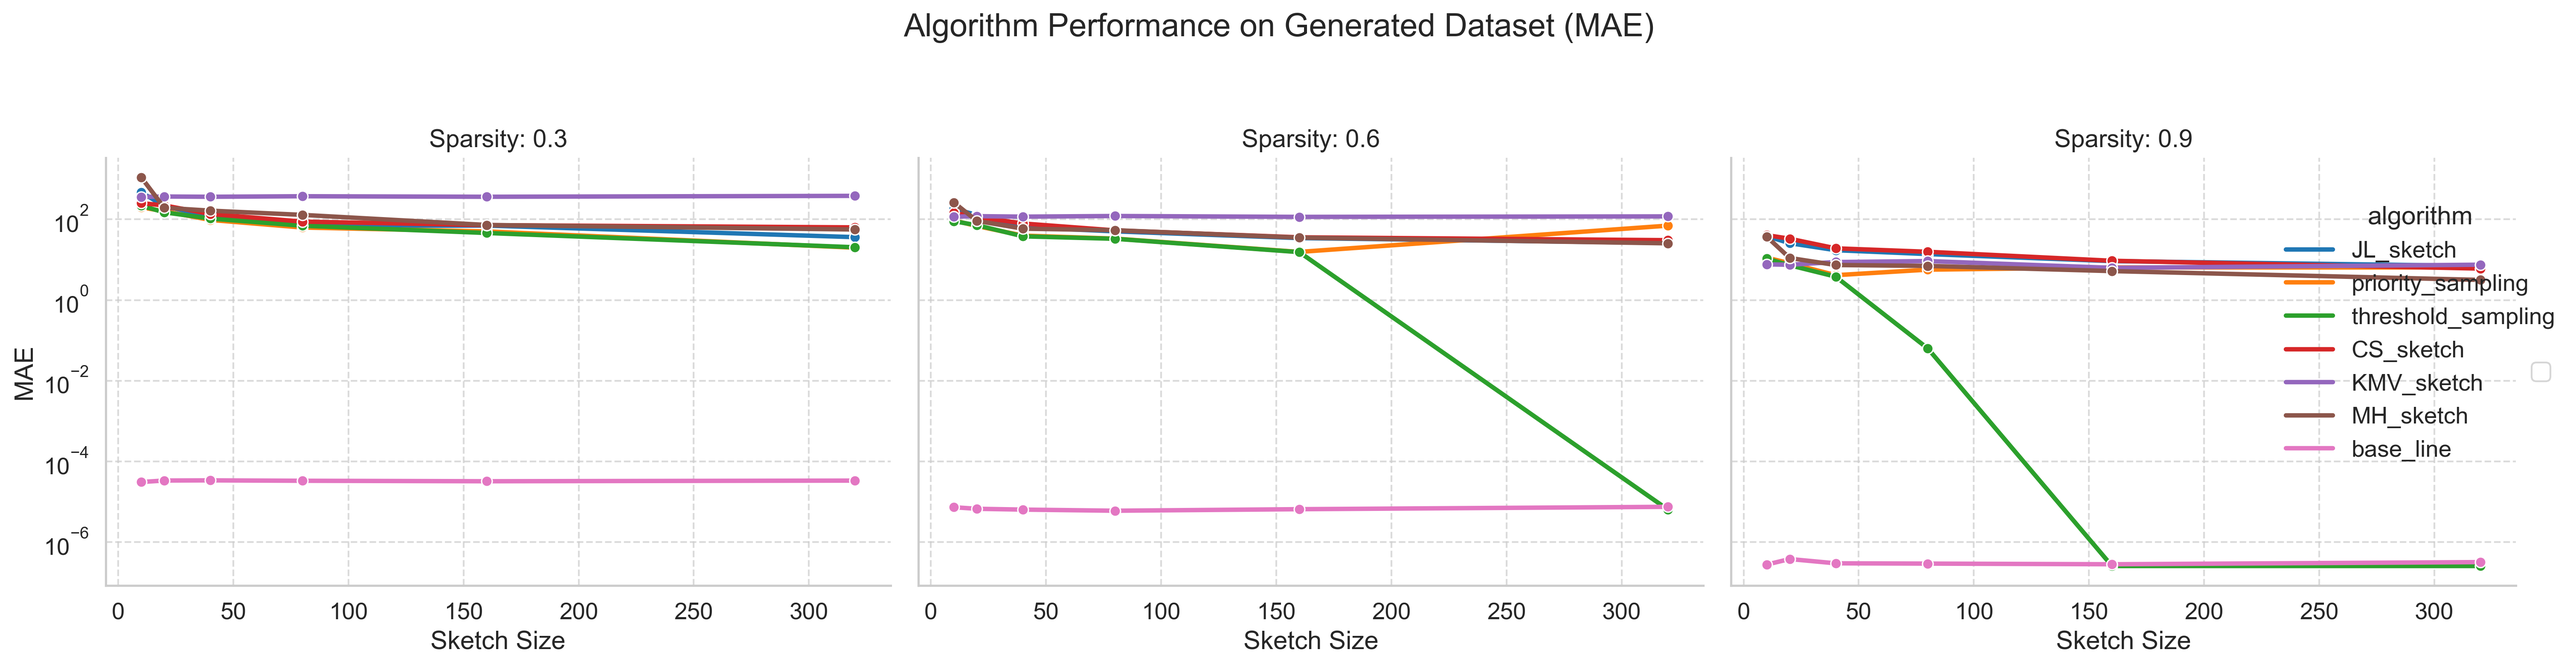
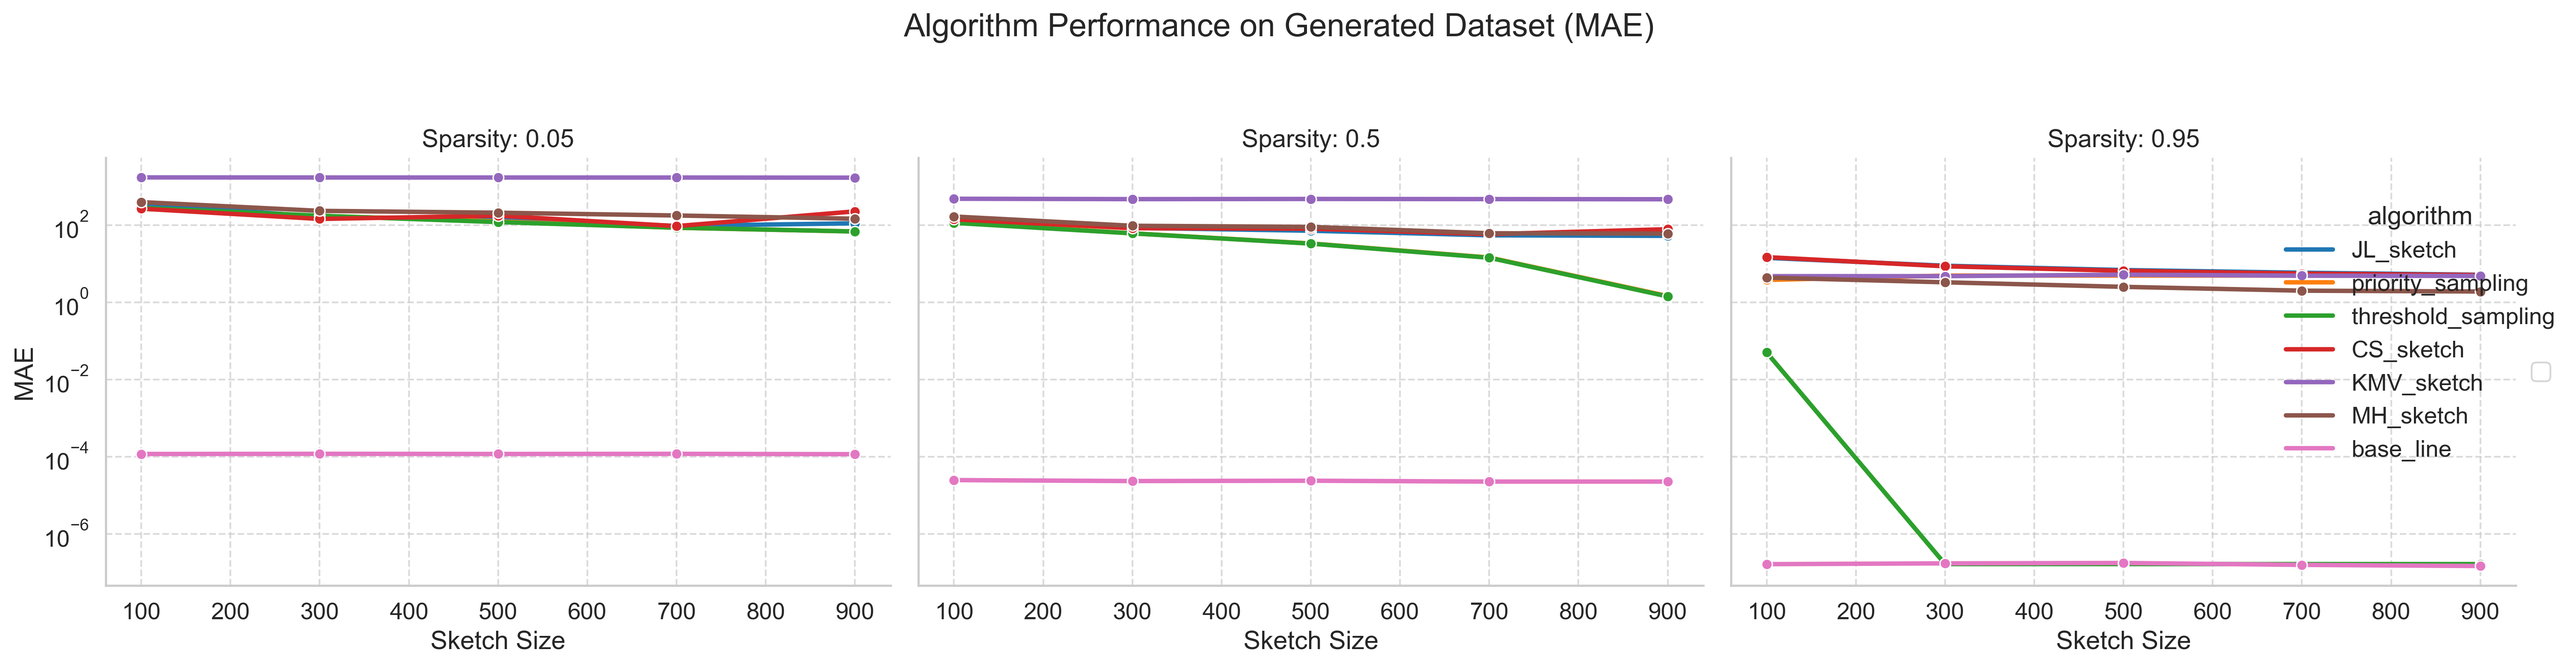
Update plot

diff --git a/plot.py b/plot.py
@@ -22,25 +22,27 @@ sns.set_style("whitegrid")
 sns.set_context("notebook", font_scale=1.2, rc={"lines.linewidth": 2.5})
 plt.rcParams["figure.figsize"] = (12, 8)
 
-# 算法在20newsgroups数据集上的性能比较图
-# 创建一个包含两个子图的图表
-fig, (ax1, ax2) = plt.subplots(1, 2, figsize=(20, 8))
-# 绘制RMSE子图
+# 算法在20newsgroups数据集上的性能比较图 (RMSE)
+plt.figure(figsize=(12, 8))
 sns.lineplot(x='sketch_size', y='RMSE', hue='algorithm', data=results_df[results_df['dataset'] == '20newsgroups'],
-             marker='o', ax=ax1)
-ax1.set_xlabel('Sketch Size')
-ax1.set_ylabel('RMSE')
-ax1.set_title('RMSE Performance on 20newsgroups Dataset')
-ax1.legend(title='Algorithm', loc='upper right')
-# 绘制MAE子图
-sns.lineplot(x='sketch_size', y='MAE', hue='algorithm', data=results_df[results_df['dataset'] == '20newsgroups'],
-             marker='o', ax=ax2)
-ax2.set_xlabel('Sketch Size')
-ax2.set_ylabel('MAE')
-ax2.set_title('MAE Performance on 20newsgroups Dataset')
-ax2.legend(title='Algorithm', loc='upper right')
+             marker='o')
+plt.xlabel('Sketch Size')
+plt.ylabel('RMSE')
+plt.title('Algorithm Performance on 20newsgroups Dataset (RMSE)')
+plt.legend(title='Algorithm', loc='center left', bbox_to_anchor=(1, 0.5))
 plt.tight_layout()
-plt.savefig(os.path.join(plot_dir, '20newsgroups_performance.png'), dpi=300)
+plt.savefig(os.path.join(plot_dir, '20newsgroups_performance_rmse.png'), dpi=300, bbox_inches='tight')
+
+# 算法在20newsgroups数据集上的性能比较图 (MAE)
+plt.figure(figsize=(12, 8))
+sns.lineplot(x='sketch_size', y='MAE', hue='algorithm', data=results_df[results_df['dataset'] == '20newsgroups'],
+             marker='o')
+plt.xlabel('Sketch Size')
+plt.ylabel('MAE')
+plt.title('Algorithm Performance on 20newsgroups Dataset (MAE)')
+plt.legend(title='Algorithm', loc='center left', bbox_to_anchor=(1, 0.5))
+plt.tight_layout()
+plt.savefig(os.path.join(plot_dir, '20newsgroups_performance_mae.png'), dpi=300, bbox_inches='tight')
 
 # 算法在自己生成的数据集上的性能比较图 (RMSE)
 plt.figure(figsize=(18, 6))
@@ -84,15 +86,30 @@ for i, ax in enumerate(g.axes):
 plt.tight_layout()
 plt.savefig(os.path.join(plot_dir, 'generated_dataset_mae.png'), dpi=300, bbox_inches='tight')
 
-# 绘制算法执行时间比较图
-results_df_avg = results_df.groupby(['algorithm', 'dataset'], as_index=False)['avg_execution_time'].mean()
-
+# 绘制算法执行时间比较图 (20newsgroups)
 plt.figure(figsize=(12, 8))
-sns.barplot(x='algorithm', y='avg_execution_time', hue='dataset', data=results_df_avg, ci=None, palette='muted')
-plt.title('Algorithm Execution Time Comparison (Average across all sparsity and sketch_size settings)')
-plt.xlabel('Algorithm')
-plt.ylabel('Average Execution Time (s)')
+sns.lineplot(x='sketch_size', y='avg_execution_time', hue='algorithm',
+             data=results_df[results_df['dataset'] == '20newsgroups'], marker='o')
+plt.title('Algorithm Execution Time Comparison on 20newsgroups Dataset')
+plt.xlabel('Sketch Size')
+plt.ylabel('Execution Time (s)')
 plt.yscale('log')
-plt.legend(title='Dataset', loc='upper left')
+plt.legend(title='Algorithm', loc='center left', bbox_to_anchor=(1, 0.5))
 plt.tight_layout()
-plt.savefig(os.path.join(plot_dir, 'algorithm_execution_time_comparison.png'), dpi=300)
+plt.savefig(os.path.join(plot_dir, 'algorithm_execution_time_20newsgroups.png'), dpi=300, bbox_inches='tight')
+
+# 计算sketch_size的中位数
+median_sketch_size = results_df['sketch_size'].median()
+
+# 绘制算法执行时间比较图 (generated)
+plt.figure(figsize=(12, 8))
+sns.lineplot(x='sparsity', y='avg_execution_time', hue='algorithm',
+             data=results_df[(results_df['dataset'] == 'generated') & (results_df['sketch_size'] == median_sketch_size)],
+             marker='o')
+plt.title(f'Algorithm Execution Time Comparison on Generated Dataset (Sketch Size: {median_sketch_size})')
+plt.xlabel('Sparsity')
+plt.ylabel('Execution Time (s)')
+plt.yscale('log')
+plt.legend(title=f'Algorithm (Sketch Size: {median_sketch_size})', loc='center left', bbox_to_anchor=(1, 0.5))
+plt.tight_layout()
+plt.savefig(os.path.join(plot_dir, f'algorithm_execution_time_generated_sketchsize_{median_sketch_size}.png'), dpi=300, bbox_inches='tight')

diff --git a/datasets/newsgroup20_adaptor.py b/datasets/newsgroup20_adaptor.py
@@ -11,8 +11,8 @@ class NewsGroup20Adaptor(DatasetAdaptor):
         newsgroups_train = fetch_20newsgroups(subset='train')
         newsgroups_test = fetch_20newsgroups(subset='test')
 
-        train_data = resample(newsgroups_train.data, n_samples=10, random_state=42)
-        test_data = resample(newsgroups_test.data, n_samples=10, random_state=42)
+        train_data = resample(newsgroups_train.data, n_samples=30, random_state=42)
+        test_data = resample(newsgroups_test.data, n_samples=30, random_state=42)
         return train_data, test_data
 
     def preprocess_data(self, data):
@@ -22,8 +22,10 @@ class NewsGroup20Adaptor(DatasetAdaptor):
         # # Print the shape of the output vectors
         # print(f"Training data shape: {X_train.shape}")
         # print(f"Testing data shape: {X_test.shape}")
- #       print(f"Vocabulary size: {len(vectorizer.vocabulary_)}")
+        # print(f"Vocabulary size: {len(vectorizer.vocabulary_)}")
         #(5,490)
         #(10,751)
+        #(30,1911)
+        #(50,3036)
         #(100,5580)
         return X_train, X_test

diff --git a/supermain.py b/supermain.py
@@ -22,13 +22,13 @@ algorithms = {
 
 datasets = {
     '20newsgroups': {'type': 'provided', 'config': {}},
-    'generated': {'type': 'generated', 'config': {'data_shape': [10, 750, 750, 10], 'sparsity': [0.3,0.6,0.9], 'vector': False, 'type': 'normal', 'precision': 'float', 'mean': 1, 'deviation': 1}}
+    'generated': {'type': 'generated', 'config': {'data_shape': [30,1911,1911,30], 'sparsity': [0.05,0.5,0.95], 'vector': False, 'type': 'normal', 'precision': 'float', 'mean': 1, 'deviation': 1}}
 }
 
-sketch_sizes = [10,20,40,80,160,320]
-num_runs = 3
+sketch_sizes = [100,300,500,700,900]
+num_runs = 1
 
-total_runs =  len(algorithms) * len(sketch_sizes) * num_runs
+total_runs =  len(algorithms) * len(sketch_sizes) * num_runs * 2
 
 pbar = tqdm(total=total_runs, desc="Total progress", position=0, leave=True)
 
